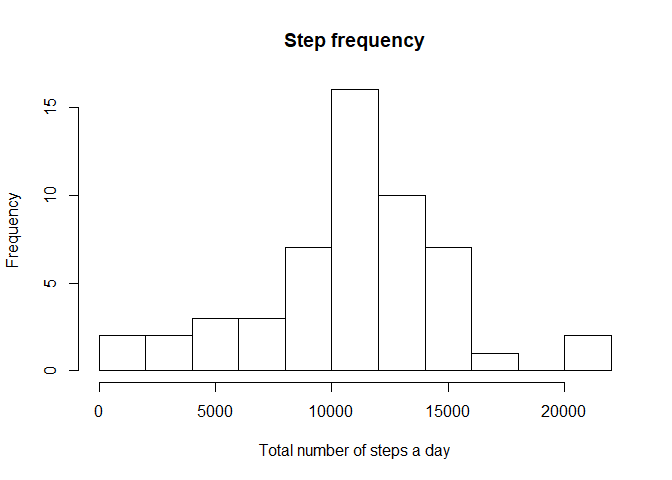
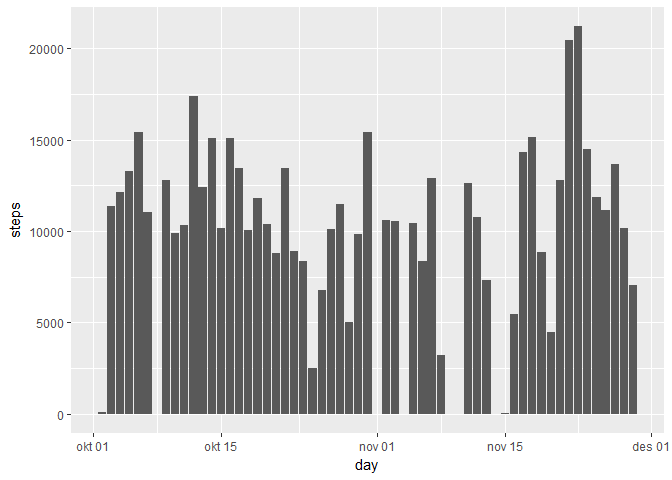
edited

diff --git a/PA1_template.html b/PA1_template.html
@@ -125,14 +125,17 @@ $(document).ready(function () {
 <div id="loading-and-preprocessing-the-data" class="section level2">
 <h2>Loading and preprocessing the data</h2>
 <pre class="r"><code>df &lt;- read.csv(&quot;activity.csv&quot;)
-df$date &lt;- as.Date(as.character(df$date), &quot;%Y-%m-%d&quot;)</code></pre>
+df$date &lt;- as.Date(as.character(df$date), &quot;%Y-%m-%d&quot;)
+library(ggplot2)</code></pre>
 </div>
 <div id="what-is-mean-total-number-of-steps-taken-per-day" class="section level2">
 <h2>What is mean total number of steps taken per day?</h2>
 <pre class="r"><code>hist_mean_med &lt;- function(df)
 {
+  
   h &lt;- setNames(aggregate(df$steps, list(df$date), sum), c(&quot;day&quot;, &quot;steps&quot;))
-  hist(h$steps, 10, main=&quot;Step frequency&quot;, xlab=&quot;Total number of steps a day&quot;)
+  print(ggplot(h, aes(day, steps)) + geom_col())
+
   print(&quot;mean&quot;)
   print(mean(h$steps))
   print(&quot;median&quot;)
@@ -140,7 +143,8 @@ df$date &lt;- as.Date(as.character(df$date), &quot;%Y-%m-%d&quot;)</code></pre>
 }
 
 hist_mean_med(df)</code></pre>
[1 lines of base64/hex data omitted]
+<pre><code>## Warning: Removed 8 rows containing missing values (position_stack).</code></pre>
[1 lines of base64/hex data omitted]
 <pre><code>## [1] &quot;mean&quot;
 ## [1] NA
 ## [1] &quot;median&quot;
@@ -165,6 +169,15 @@ abline(v=max_step_int, col=&quot;red&quot;)</code></pre>
 <h2>Imputing missing values</h2>
 <pre class="r"><code>df_fix &lt;- df
 df_fix[is.na(df_fix$steps)  , &quot;steps&quot;] &lt;- mean(df_fix$steps, na.rm=TRUE)</code></pre>
+</div>
+<div id="histogram-mean-mode-again" class="section level2">
+<h2>Histogram, mean, mode again</h2>
+<pre class="r"><code>hist_mean_med(df_fix)</code></pre>
[1 lines of base64/hex data omitted]
+<pre><code>## [1] &quot;mean&quot;
+## [1] 10766.19
+## [1] &quot;median&quot;
+## [1] 10766.19</code></pre>
 </div>
 <div id="are-there-differences-in-activity-patterns-between-weekdays-and-weekends" class="section level2">
 <h2>Are there differences in activity patterns between weekdays and weekends?</h2>

diff --git a/PA1_template.md b/PA1_template.md
@@ -11,6 +11,7 @@ output:
 ```r
 df <- read.csv("activity.csv")
 df$date <- as.Date(as.character(df$date), "%Y-%m-%d")
+library(ggplot2)
 ```
 
 ## What is mean total number of steps taken per day?
@@ -18,8 +19,10 @@ df$date <- as.Date(as.character(df$date), "%Y-%m-%d")
 ```r
 hist_mean_med <- function(df)
 {
+  
   h <- setNames(aggregate(df$steps, list(df$date), sum), c("day", "steps"))
-  hist(h$steps, 10, main="Step frequency", xlab="Total number of steps a day")
+  print(ggplot(h, aes(day, steps)) + geom_col())
+
   print("mean")
   print(mean(h$steps))
   print("median")
@@ -27,6 +30,10 @@ hist_mean_med <- function(df)
 }
 
 hist_mean_med(df)
+```
+
+```
+## Warning: Removed 8 rows containing missing values (position_stack).
 ```
 
 ![](PA1_template_files/figure-html/unnamed-chunk-2-1.png)<!-- -->
@@ -66,6 +73,23 @@ df_fix[is.na(df_fix$steps)  , "steps"] <- mean(df_fix$steps, na.rm=TRUE)
 ```
 
 
+## Histogram, mean, mode again
+
+```r
+hist_mean_med(df_fix)
+```
+
+![](PA1_template_files/figure-html/unnamed-chunk-5-1.png)<!-- -->
+
+```
+## [1] "mean"
+## [1] 10766.19
+## [1] "median"
+## [1] 10766.19
+```
+
+
+
 ## Are there differences in activity patterns between weekdays and weekends?
 
 ```r
@@ -99,4 +123,4 @@ g <- lineplot( df_fix[!isWeekends, ] )
 axis(side=1)
 ```
 
-![](PA1_template_files/figure-html/unnamed-chunk-5-1.png)<!-- -->
+![](PA1_template_files/figure-html/unnamed-chunk-6-1.png)<!-- -->
